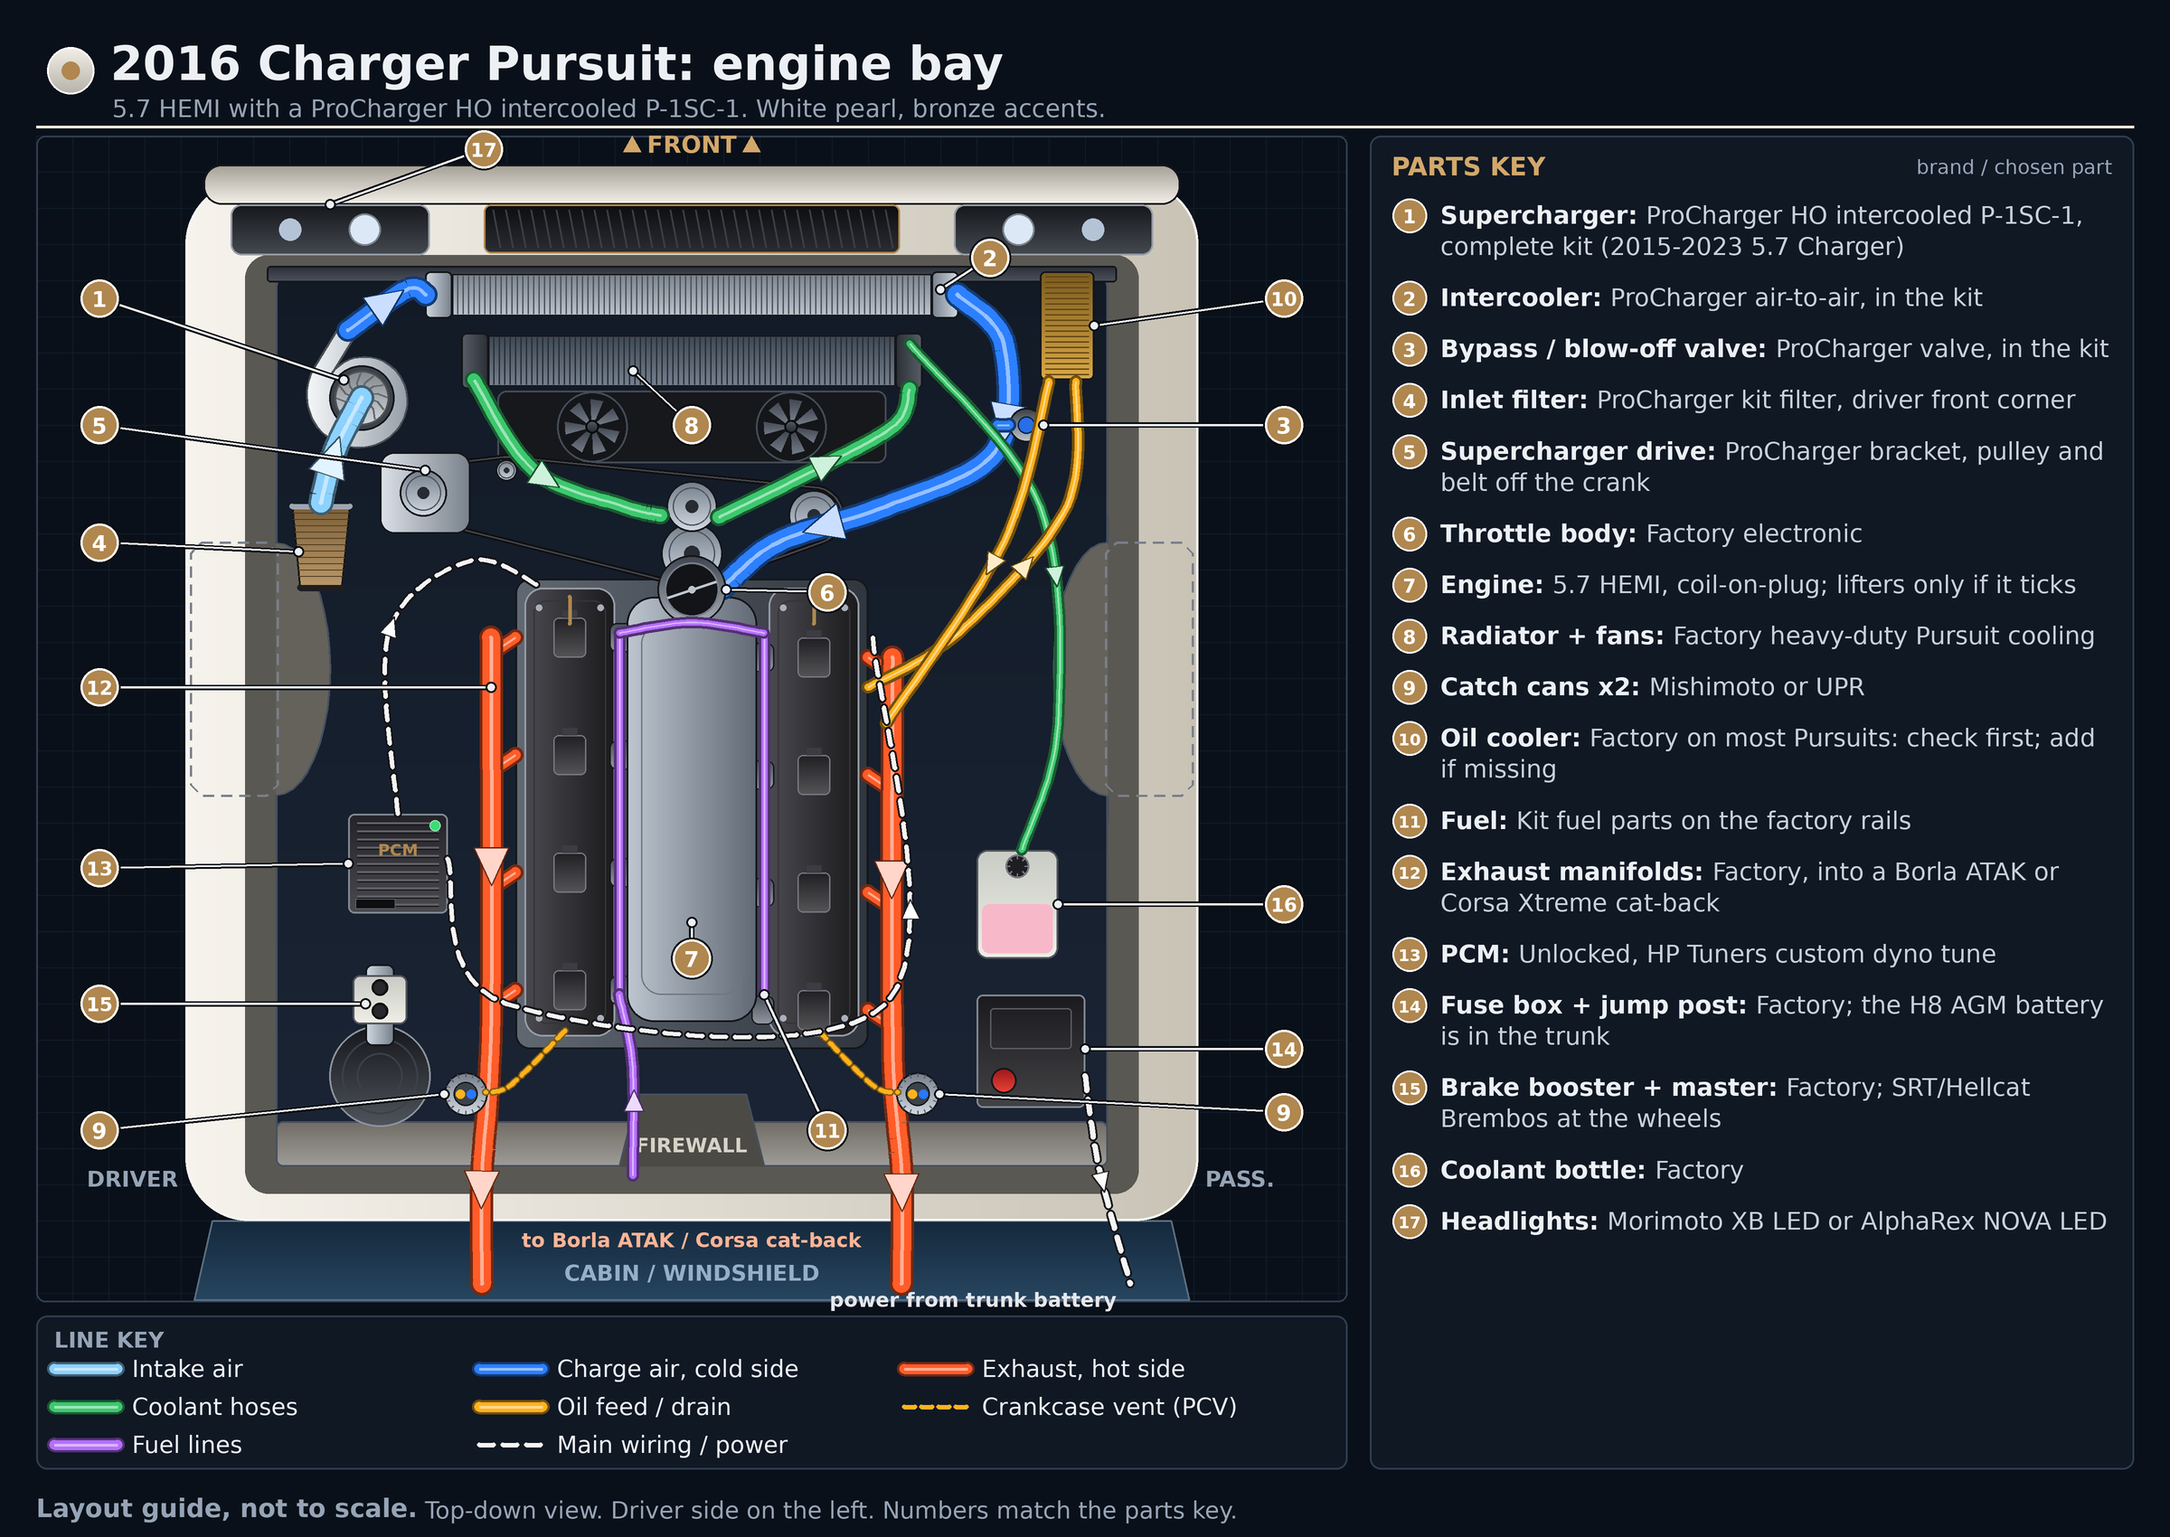
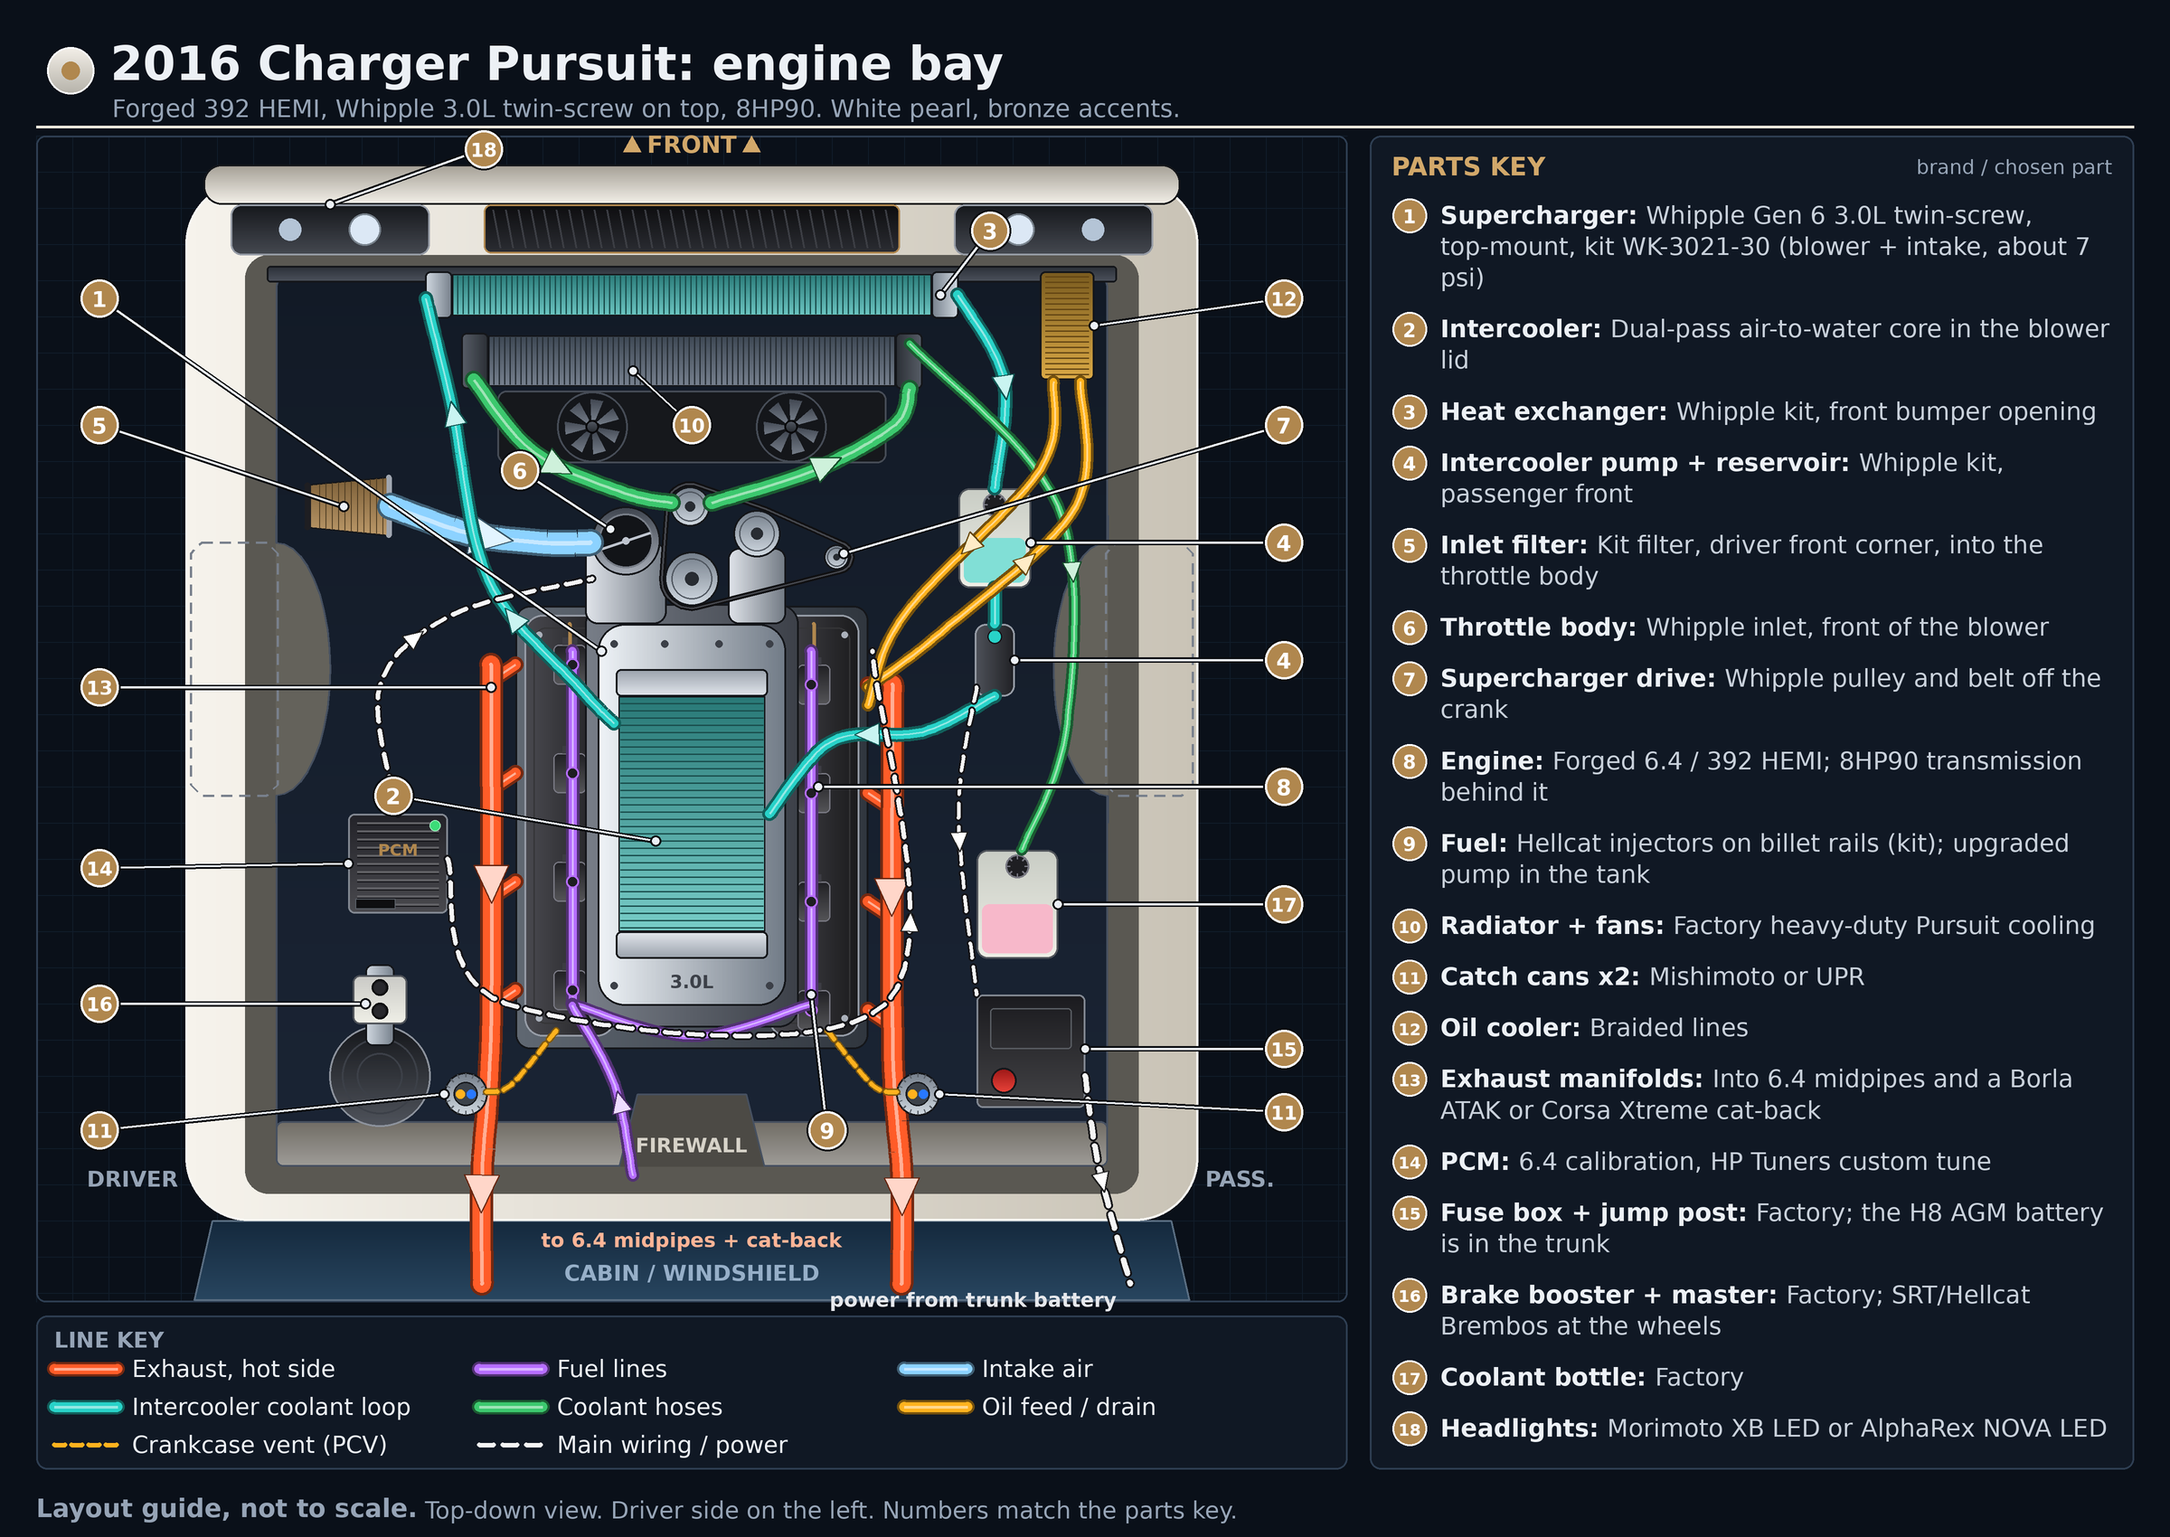
Charger engine bay layout: forged 392 + Whipple 3.0L, no ProCharger
Claude-Session: https://claude.ai/code/session_01TQWUAJSyeczoh1eaRjRwmB

diff --git a/personal/cars/layouts/make_layouts.py b/personal/cars/layouts/make_layouts.py
@@ -42,6 +42,7 @@ LINES = {
     "air": ((170, 178, 188), "braid", "Air ride lines"),
     "ac": ((255, 130, 200), "pipe", "A/C lines"),
     "vent": ((255, 178, 30), "thin", "Crankcase vent (PCV)"),
+    "ic": ((40, 210, 200), "pipe", "Intercooler coolant loop"),
 }
 
 
@@ -1169,7 +1170,7 @@ def cutlass_trunk():
 def charger_bay():
     cv = Cv(CHARGER)
     cv.grid()
-    cv.header("2016 Charger Pursuit: engine bay", "5.7 HEMI with a ProCharger HO intercooled P-1SC-1. White pearl, bronze accents.")
+    cv.header("2016 Charger Pursuit: engine bay", "Forged 392 HEMI, Whipple 3.0L twin-screw on top, 8HP90. White pearl, bronze accents.")
     b = dict(L=205, R=1325, top=200, cowl=1310, open=(305, 300, 1225, 1290), wheel=(600, 880), bulge=60, firewall=1240, tire_w=96)
     bay_body(cv, b)
     cx = 765
@@ -1177,116 +1178,130 @@ def charger_bay():
     for x in range(cx - 220, cx + 221, 14):
         cv.line([(x, 232), (x + 8, 274)], (60, 62, 68), 2)
     headlight_pair(cv, cx, 400, 226, 282, 110)
-    # intercooler, radiator, fans
-    finned(cv, 470, 300, 1060, 352, ((120, 128, 138), (190, 198, 208)), ALU, step=6, tw=30)
+    # front heat exchanger (intercooler loop), radiator, fans
+    finned(cv, 470, 300, 1060, 352, ((40, 120, 118), (110, 200, 196)), ALU, step=6, tw=30)
     finned(cv, 510, 368, 1020, 430, ((60, 70, 82), (120, 130, 144)), ((40, 44, 50), (90, 96, 106)), step=6, tw=30)
     cv.rect(550, 432, 980, 512, fill=(22, 24, 28), outline=(70, 76, 86), w=2, r=10)
     fan(cv, 655, 472, 33)
     fan(cv, 875, 472, 33)
-    e = v8(cv, cx, 620, 1160, half=195, hemi=True, cover=(hexc("1a1a1c"), hexc("4a4a50")), coil_col=(30, 30, 34))
-    # bronze accent stripes on covers
+    e = v8(cv, cx, 650, 1160, half=195, hemi=True, cover=(hexc("1a1a1c"), hexc("4a4a50")), coil_col=(30, 30, 34))
     for vx0, vx1 in (e["cover_l"], e["cover_r"]):
-        cv.line([((vx0 + vx1) / 2, 660), ((vx0 + vx1) / 2, 690)], (176, 135, 78), 4)
-    # accessory drive + ProCharger belt
-    belt(cv, [(cx, 612, 34), (cx, 560, 28), (468, 545, 26), (560, 520, 12), (900, 570, 28)])
-    pulley(cv, cx, 612, 34)
-    pulley(cv, cx, 560, 28)
-    pulley(cv, 900, 570, 28)
-    pulley(cv, 560, 520, 12)
-    # ProCharger head unit: gearcase + volute
-    cv.grad("rect", (420, 500, 520, 590), (120, 128, 138), (220, 226, 232), vertical=False, outline=(20, 22, 26), r=16)
-    pulley(cv, 468, 545, 26)
-    pc_out = snail(cv, 400, 440, 62, -math.pi / 2 + 0.55, ((150, 158, 168), (245, 248, 250)))
-    cv.ell(400, 440, 36, fill=(60, 66, 74), outline=(20, 22, 26), w=2)
-    wheel_face(cv, 400, 440, 30, (200, 206, 214), 12)
-    # inlet filter
-    cone_filter(cv, 355, 560, 90, 32, math.pi / 2, (176, 135, 78))
-    cv.route("intake", [(355, 556), (370, 500), (400, 440)], w=22, arrows=(0.4,))
-    # charge path
-    cv.route("charge", [pc_out, (450, 320), (471, 326)], w=20, arrows=(0.5,))
-    cv.route("charge", [(1059, 326), (1110, 380), (1100, 500), (980, 560), (860, 600), (cx + 34, 650)], w=22, arrows=(0.3, 0.75))
-    bov(cv, 1135, 470, 19)
-    cv.route("charge", [(1103, 470), (1116, 470)], w=10, arrows=(), smooth=False)
-    throttle_body(cv, cx, 652, 30)
+        cv.line([((vx0 + vx1) / 2, 690), ((vx0 + vx1) / 2, 720)], (176, 135, 78), 4)
     # exhaust manifolds to the rear
     for side in (-1, 1):
         ports = e["ports_l"] if side < 0 else e["ports_r"]
         mx = cx + side * 222
         for (px, py) in ports:
             cv.route("exhaust", [(px, py), (mx, py + 18)], w=12, arrows=(), smooth=False)
-        cv.route("exhaust", [(mx, ports[0][1]), (mx, ports[-1][1] + 30), (mx + side * 10, 1300), (mx + side * 10, 1420)], w=20, arrows=(0.35, 0.85), hidden=False)
-    cv.text(cx, 1372, "to Borla ATAK / Corsa cat-back", 22, True, (255, 180, 150), "mm")
-    # coolant
-    cv.route("coolant", [(cx + 30, 572), (900, 520), (990, 470), (1006, 430)], w=14, arrows=(0.5,))
-    cv.route("coolant", [(524, 420), (590, 520), (690, 560), (cx - 34, 570)], w=14, arrows=(0.5,))
+        cv.route("exhaust", [(mx, ports[0][1]), (mx, ports[-1][1] + 30), (mx + side * 10, 1300), (mx + side * 10, 1420)], w=20, arrows=(0.35, 0.85))
+    cv.text(cx, 1372, "to 6.4 midpipes + cat-back", 22, True, (255, 180, 150), "mm")
+    # Whipple blower: intake base, rotor case, intercooler lid
+    cv.grad("rect", (cx - 118, 668, cx + 118, 1136), (60, 64, 72), (120, 126, 136), vertical=False, outline=(20, 22, 26), w=2, r=22)
+    cv.grad("rect", (cx - 104, 690, cx + 104, 1112), ALU[0], (240, 244, 248), vertical=False, outline=(20, 22, 26), w=2, r=30)
+    finned(cv, cx - 84, 740, cx + 84, 1060, ((40, 120, 118), (120, 205, 200)), ((150, 158, 168), (230, 234, 240)), vertical_fins=False, step=8, tanks="tb", tw=30)
+    for xx in (cx - 86, cx - 30, cx + 30, cx + 86):
+        cv.ell(xx, 712, 4, fill=(60, 64, 72))
+    for xx in (cx - 86, cx + 86):
+        cv.ell(xx, 1090, 4, fill=(60, 64, 72))
+    cv.text(cx, 1086, "3.0L", 20, True, (60, 64, 72), "mm")
+    # billet fuel rails with Hellcat injectors, drawn beside the blower
+    for side in (-1, 1):
+        fx = cx + side * 132
+        cv.route("fuel", [(fx, 720), (fx, 1110)], w=9, arrows=(), smooth=False)
+        for y in e["cyl_y"]:
+            yy = y + (0 if side < 0 else 22)
+            cv.ell(fx, yy, 7, fill=(30, 30, 34), outline=(182, 110, 255), w=2)
+    cv.route("fuel", [(cx - 132, 1110), (cx, 1146), (cx + 132, 1110)], w=7, arrows=())
+    cv.route("fuel", [(700, 1300), (680, 1200), (cx - 132, 1112)], w=8, arrows=(0.4,))
+    # snout: inlet + throttle body (driver), drive pulley (passenger)
+    cv.grad("rect", (cx - 118, 600, cx - 28, 690), (110, 118, 128), (226, 230, 236), vertical=False, outline=(20, 22, 26), r=14)
+    cv.grad("rect", (cx + 40, 606, cx + 104, 690), (110, 118, 128), (226, 230, 236), vertical=False, outline=(20, 22, 26), r=12)
+    belt(cv, [(cx, 640, 30), (cx + 72, 590, 26), (cx + 160, 616, 14), (cx - 2, 560, 22)])
+    pulley(cv, cx - 2, 560, 22)
+    pulley(cv, cx, 640, 30)
+    pulley(cv, cx + 72, 590, 26)
+    pulley(cv, cx + 160, 616, 14)
+    throttle_body(cv, cx - 73, 598, 30)
+    # inlet filter, driver front corner, into the throttle body
+    cone_filter(cv, 430, 560, 90, 32, math.pi, (176, 135, 78))
+    cv.route("intake", [(432, 560), (520, 590), (600, 600), (cx - 112, 600)], w=24, arrows=(0.5,))
+    # intercooler coolant loop: heat exchanger -> reservoir -> pump -> lid -> back
+    reservoir(cv, 1060, 540, 1140, 650, (40, 210, 200))
+    cv.grad("rect", (1078, 690, 1122, 770), (30, 30, 34), (80, 84, 92), vertical=False, outline=(150, 156, 166), w=2, r=12)
+    cv.ell(1100, 704, 8, fill=(40, 210, 200), outline=(20, 22, 26), w=1.5)
+    cv.route("ic", [(1059, 326), (1110, 420), (1100, 540)], w=10, arrows=(0.5,))
+    cv.route("ic", [(1100, 650), (1100, 690)], w=10, arrows=(), smooth=False)
+    cv.route("ic", [(1100, 770), (1020, 810), (920, 820), (cx + 86, 900)], w=10, arrows=(0.5,))
+    cv.route("ic", [(cx - 86, 800), (640, 760), (540, 640), (500, 450), (471, 330)], w=10, arrows=(0.3, 0.75))
+    # engine coolant
+    cv.route("coolant", [(cx + 22, 556), (900, 520), (990, 470), (1006, 430)], w=14, arrows=(0.5,))
+    cv.route("coolant", [(524, 420), (590, 500), (690, 545), (cx - 22, 556)], w=14, arrows=(0.5,))
     reservoir(cv, 1080, 940, 1170, 1060, (255, 140, 180))
-    cv.route("coolant", [(1006, 380), (1150, 560), (1170, 800), (1130, 940)], w=7, arrows=(0.5,))
-    # oil cooler (factory check) passenger front
+    cv.route("coolant", [(1006, 380), (1170, 560), (1180, 800), (1130, 940)], w=7, arrows=(0.5,))
+    # oil cooler passenger front, braided lines
     cv.grad("rect", (1150, 300, 1210, 420), (120, 90, 30), (220, 170, 70), outline=(20, 22, 26), r=6)
     for y in range(306, 416, 6):
         cv.line([(1156, y), (1204, y)], (100, 70, 20), 1.5)
-    cv.route("oil", [(960, 760), (1060, 700), (1180, 560), (1190, 422)], w=8, arrows=(0.5,))
-    cv.route("oil", [(1160, 422), (1110, 600), (980, 800)], w=8, arrows=(0.5,))
+    cv.route("oil", [(960, 760), (1040, 700), (1190, 560), (1195, 422)], w=8, arrows=(0.5,))
+    cv.route("oil", [(1165, 422), (1150, 520), (1000, 680), (960, 780)], w=8, arrows=(0.5,))
     # catch cans
     for side in (-1, 1):
         ccx = cx + side * 250
         catch_can(cv, ccx, 1210, 24)
-        cv.route("vent", [(cx + side * 140, 1140), (cx + side * 200, 1200), (ccx - side * 22, 1208)], arrows=())
-    # fuel rails
-    for side in (-1, 1):
-        fx = cx + side * 80
-        cv.route("fuel", [(fx, 700), (fx, 1100)], w=7, arrows=(), smooth=False)
-    cv.route("fuel", [(700, 1300), (700, 1180), (cx - 80, 1100)], w=8, arrows=(0.4,))
-    cv.route("fuel", [(cx - 80, 700), (cx, 688), (cx + 80, 700)], w=7, arrows=())
+        cv.route("vent", [(cx + side * 150, 1140), (cx + side * 200, 1200), (ccx - side * 22, 1208)], arrows=())
     # PCM driver side
     box_module(cv, 385, 900, 495, 1010, base=(34, 34, 40), led=(60, 220, 120), fins=True)
     cv.text(440, 940, "PCM", 18, True, (176, 135, 78), "mm")
-    cv.route("wire", [(495, 950), (560, 1110), (980, 1110), (965, 700)], arrows=(0.7,))
-    cv.route("wire", [(440, 900), (430, 700), (520, 620), (600, 650)], arrows=(0.5,))
-    # power distribution center + jump post (passenger)
+    cv.route("wire", [(495, 950), (560, 1110), (980, 1110), (965, 720)], arrows=(0.7,))
+    cv.route("wire", [(440, 900), (420, 760), (500, 680), (cx - 110, 640)], arrows=(0.5,))
+    # power distribution center + jump post (battery in the trunk)
     box_module(cv, 1080, 1100, 1200, 1225, base=(26, 26, 30), conn=False)
     cv.rect(1095, 1115, 1185, 1160, outline=(90, 94, 100), w=1.5, r=4)
     cv.grad("ell", (1110, 1195, 14, 14), (150, 20, 20), (240, 70, 60), outline=(20, 22, 26))
     cv.route("wire", [(1200, 1190), (1215, 1290), (1250, 1420)], w=6, arrows=(0.5,))
     cv.text(1235, 1425, "power from trunk battery", 22, True, (230, 232, 236), "ra")
+    cv.route("wire", [(1080, 760), (1060, 900), (1080, 1100)], w=4, arrows=(0.5,))
     booster_master(cv, 420, 1190, 56)
-    cv.call(1, (110, 330), [(380, 420)])
-    cv.call(2, (cx + 330, 285), [(1040, 320)])
-    cv.call(3, (1420, 470), [(1154, 470)])
-    cv.call(4, (110, 600), [(330, 610)])
-    cv.call(5, (110, 470), [(470, 520)])
-    cv.call(6, (cx + 150, 655), [(cx + 38, 652)])
-    cv.call(7, (cx, 1060), [(cx, 1020)])
-    cv.call(8, (cx, 470), [(700, 410)])
-    cv.call(9, (110, 1250), [(cx - 274, 1210)])
-    cv.call(9, (1420, 1230), [(cx + 274, 1210)])
-    cv.call(10, (1420, 330), [(1210, 360)])
-    cv.call(11, (cx + 150, 1250), [(cx + 80, 1100)])
-    cv.call(12, (110, 760), [(cx - 222, 760)])
-    cv.call(13, (110, 960), [(385, 955)])
-    cv.call(14, (1420, 1160), [(1200, 1160)])
-    cv.call(15, (110, 1110), [(404, 1110)])
-    cv.call(16, (1420, 1000), [(1170, 1000)])
-    cv.call(17, (cx - 230, 165), [(cx - 400, 226)])
+    cv.call(1, (110, 330), [(cx - 100, 720)])
+    cv.call(2, (cx - 330, 880), [(cx - 40, 930)])
+    cv.call(3, (cx + 330, 255), [(1040, 326)])
+    cv.call(4, (1420, 600), [(1140, 600)])
+    cv.call(4, (1420, 730), [(1122, 730)])
+    cv.call(5, (110, 470), [(380, 560)])
+    cv.call(6, (cx - 190, 520), [(cx - 90, 585)])
+    cv.call(7, (1420, 470), [(cx + 168, 612)])
+    cv.call(8, (1420, 870), [(905, 870)])
+    cv.call(9, (cx + 150, 1250), [(cx + 132, 1100)])
+    cv.call(10, (cx, 470), [(700, 410)])
+    cv.call(11, (110, 1250), [(cx - 274, 1210)])
+    cv.call(11, (1420, 1230), [(cx + 274, 1210)])
+    cv.call(12, (1420, 330), [(1210, 360)])
+    cv.call(13, (110, 760), [(cx - 222, 760)])
+    cv.call(14, (110, 960), [(385, 955)])
+    cv.call(15, (1420, 1160), [(1200, 1160)])
+    cv.call(16, (110, 1110), [(404, 1110)])
+    cv.call(17, (1420, 1000), [(1170, 1000)])
+    cv.call(18, (cx - 230, 165), [(cx - 400, 226)])
     cv.key()
     cv.legend([
-        (1, "Supercharger", "ProCharger HO intercooled P-1SC-1, complete kit (2015-2023 5.7 Charger)"),
-        (2, "Intercooler", "ProCharger air-to-air, in the kit"),
-        (3, "Bypass / blow-off valve", "ProCharger valve, in the kit"),
-        (4, "Inlet filter", "ProCharger kit filter, driver front corner"),
-        (5, "Supercharger drive", "ProCharger bracket, pulley and belt off the crank"),
-        (6, "Throttle body", "Factory electronic"),
-        (7, "Engine", "5.7 HEMI, coil-on-plug; lifters only if it ticks"),
-        (8, "Radiator + fans", "Factory heavy-duty Pursuit cooling"),
-        (9, "Catch cans x2", "Mishimoto or UPR"),
-        (10, "Oil cooler", "Factory on most Pursuits: check first; add if missing"),
-        (11, "Fuel", "Kit fuel parts on the factory rails"),
-        (12, "Exhaust manifolds", "Factory, into a Borla ATAK or Corsa Xtreme cat-back"),
-        (13, "PCM", "Unlocked, HP Tuners custom dyno tune"),
-        (14, "Fuse box + jump post", "Factory; the H8 AGM battery is in the trunk"),
-        (15, "Brake booster + master", "Factory; SRT/Hellcat Brembos at the wheels"),
-        (16, "Coolant bottle", "Factory"),
-        (17, "Headlights", "Morimoto XB LED or AlphaRex NOVA LED"),
+        (1, "Supercharger", "Whipple Gen 6 3.0L twin-screw, top-mount, kit WK-3021-30 (blower + intake, about 7 psi)"),
+        (2, "Intercooler", "Dual-pass air-to-water core in the blower lid"),
+        (3, "Heat exchanger", "Whipple kit, front bumper opening"),
+        (4, "Intercooler pump + reservoir", "Whipple kit, passenger front"),
+        (5, "Inlet filter", "Kit filter, driver front corner, into the throttle body"),
+        (6, "Throttle body", "Whipple inlet, front of the blower"),
+        (7, "Supercharger drive", "Whipple pulley and belt off the crank"),
+        (8, "Engine", "Forged 6.4 / 392 HEMI; 8HP90 transmission behind it"),
+        (9, "Fuel", "Hellcat injectors on billet rails (kit); upgraded pump in the tank"),
+        (10, "Radiator + fans", "Factory heavy-duty Pursuit cooling"),
+        (11, "Catch cans x2", "Mishimoto or UPR"),
+        (12, "Oil cooler", "Braided lines"),
+        (13, "Exhaust manifolds", "Into 6.4 midpipes and a Borla ATAK or Corsa Xtreme cat-back"),
+        (14, "PCM", "6.4 calibration, HP Tuners custom tune"),
+        (15, "Fuse box + jump post", "Factory; the H8 AGM battery is in the trunk"),
+        (16, "Brake booster + master", "Factory; SRT/Hellcat Brembos at the wheels"),
+        (17, "Coolant bottle", "Factory"),
+        (18, "Headlights", "Morimoto XB LED or AlphaRex NOVA LED"),
     ])
     cv.footer()
     cv.save("charger-engine-bay-layout.png")
